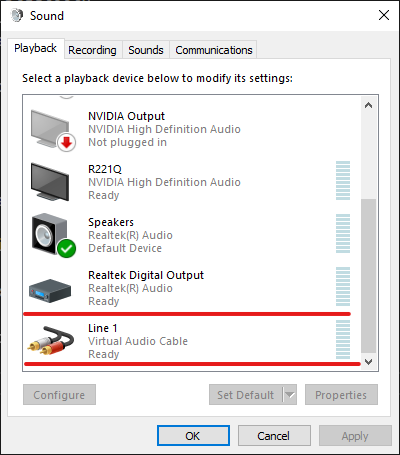
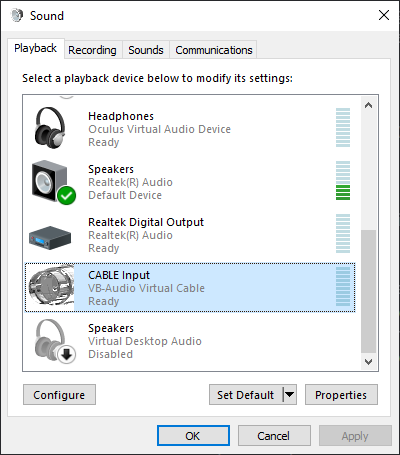
update configuration

diff --git a/Android/app/src/main/java/com/example/microphone/audio/MicAudioManager.kt b/Android/app/src/main/java/com/example/microphone/audio/MicAudioManager.kt
@@ -56,7 +56,7 @@ class MicAudioManager(ctx : Context) {
         val size = recorder?.read(buffer, 0, BUFFER_SIZE, AudioRecord.READ_BLOCKING) ?: return
         if(size <= 0)
         {
-            delay(1)
+            delay(RECORD_DELAY)
             return
         }
         // create bytearray

diff --git a/Windows/AndroidMic/Library/Audio/AudioManager.cs b/Windows/AndroidMic/Library/Audio/AudioManager.cs
@@ -104,7 +104,7 @@ namespace AndroidMic.Audio
             };
             bufferedProvider.ClearBuffer();
             // start playing
-            player.Init(bufferedProvider);
+            player.Init(volumeProvider);
             player.Play();
             DebugLog("SelectAudioDevice: " + deviceIdx);
             AddLog("Device changed to " + ((deviceIdx < 0) ? "Default" : devices[deviceIdx].ProductName));

diff --git a/README.md b/README.md
@@ -15,13 +15,21 @@ Use your Android phone as a microphone to Windows PC
 ## How to use  
 
 <details>
-<summary>Select Audio Device</summary>
+<summary>Config Audio Device</summary>
 
 1. Run Windows side app  
-2. Select audio speaker from drop down list to the one that VAC (or VB) created  
+2. Select audio speaker from drop down list to the one that VB created  
    <img src="Assets/sound_config1.png" width="300" alt="sound config1">  
-3. Use the corresponding microphone created by VAC (or VB)  
+3. Use the corresponding microphone created by VB  
    <img src="Assets/sound_config2.png" width="300" alt="sound config2">  
+4. In `Properties` of both, make sure both set default format to following:  
+   <img src="Assets/sound_config4.png" width="300" alt="sound config4">  
+5. For speaker, click `Configure Speakers` and set channel to `Mono`:  
+   <img src="Assets/sound_config3.png" width="300" alt="sound config3">  
+6. For microphone, click `Properties` and set following:  
+   <img src="Assets/sound_config5.png" width="300" alt="sound config5">
+
+On my machine, this setup has the lowest delay and best sound quality. VB is not optimized as hardware devices, so these configurations are important for audio.
 
 </details>
 
